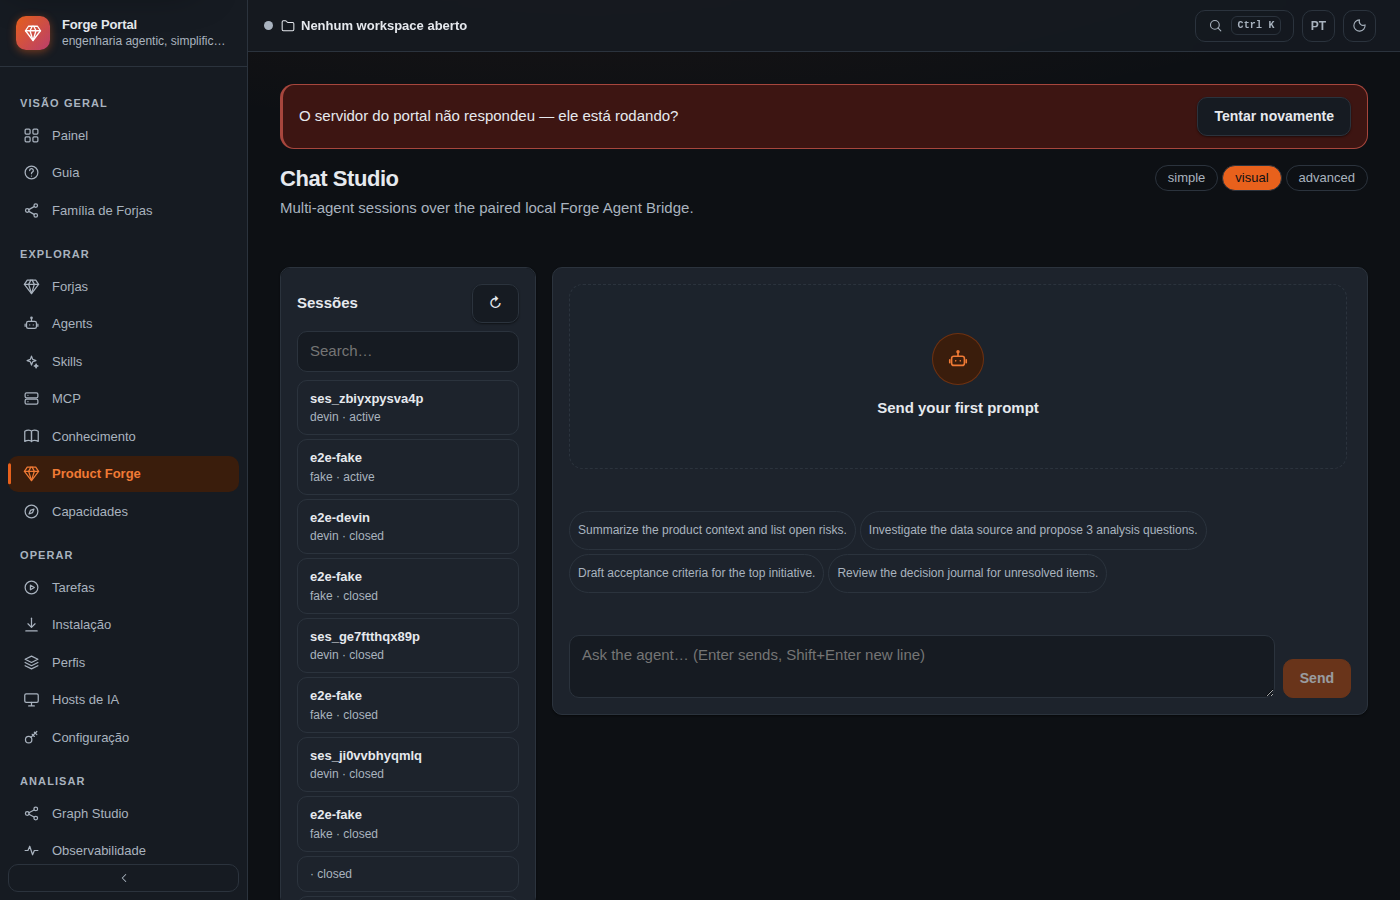
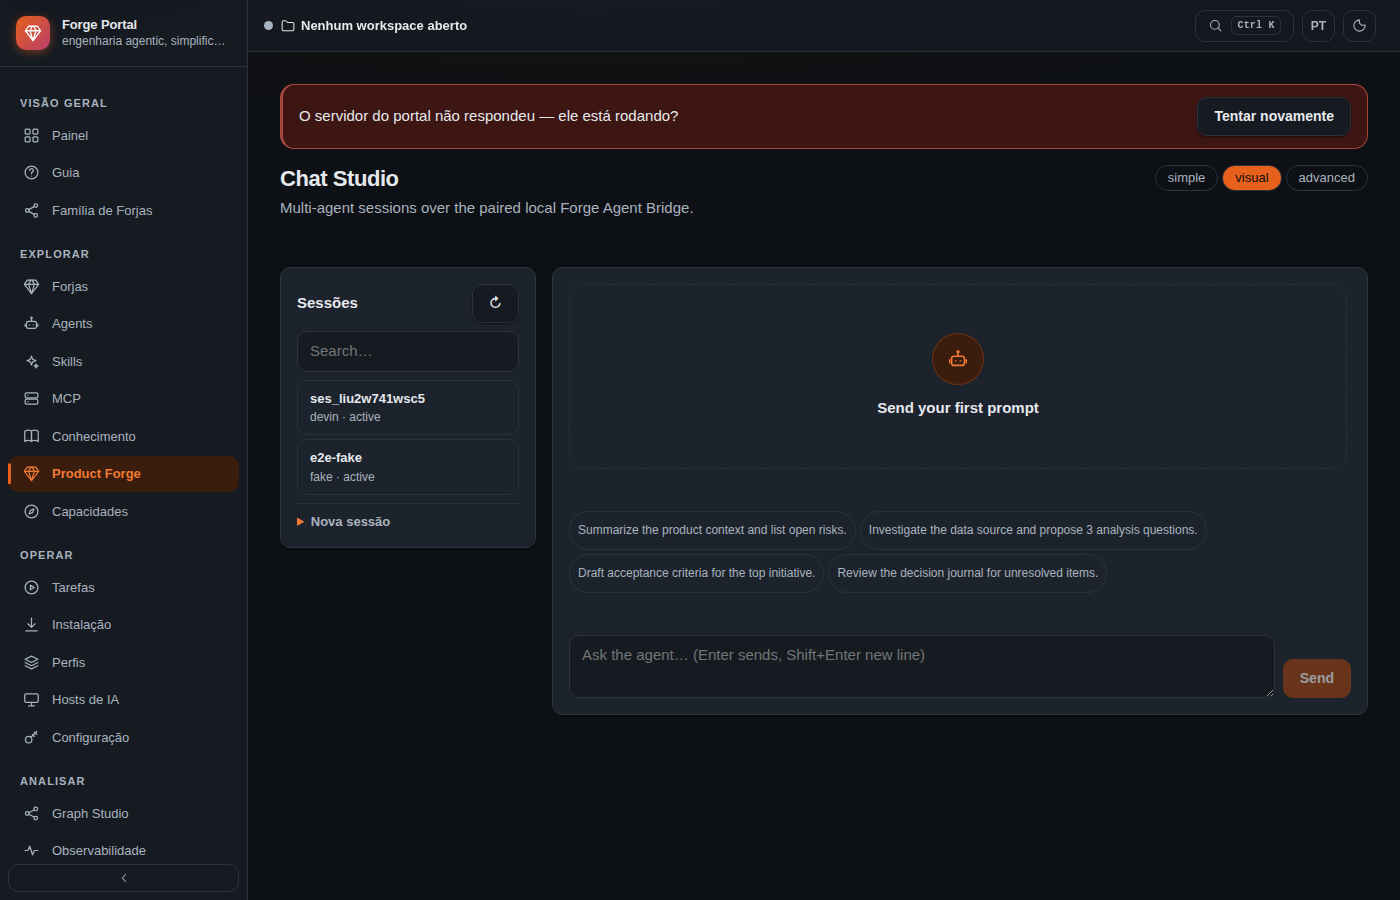
feat: portable e2e harness — dynamic repos/ports/seeded PF state (§30.2)
- seed_pf(): real workspace/products/knowledge-doc/sqlite data-source via
  API in a fresh PF home; all downstream checks use server-assigned ids.
- Playwright re-exec: falls back to PORTAL_REPO/.venv/bin/python (or
  E2E_PY) when the invoking interpreter lacks playwright.
- Verified end-to-end: 42/42 checks green incl. seeded PF flow, real
  Devin provider, and Chromium portal-sessions-visible.

Generated with [Devin](https://devin.ai)

diff --git a/scripts/e2e_cycle30_1.py b/scripts/e2e_cycle30_1.py
@@ -32,6 +32,21 @@ import urllib.request
 from pathlib import Path
 
 
+# Re-exec under a playwright-capable interpreter when needed — the harness
+# itself is stdlib-only, but the Chromium evidence step needs playwright.
+def _needs_reexec() -> str | None:
+    try:
+        import playwright  # noqa: F401
+        return None
+    except ImportError:
+        pass
+    cand = os.environ.get("E2E_PY") or str(
+        PORTAL_REPO / ".venv/bin/python")  # resolved at call time
+    if cand and Path(cand).exists() and Path(cand) != Path(sys.executable):
+        return cand
+    return None
+
+
 def _root() -> Path:
     """Repo root discovery: --root/env FORGE_ROOT, else this repo's parent."""
     if os.environ.get("FORGE_ROOT"):
@@ -123,7 +138,55 @@ def wait_http(url: str, timeout: float = 30) -> None:
     raise RuntimeError(f"timeout waiting for {url}")
 
 
+
+def seed_pf(tok: str) -> dict:
+    """§15 seed — real workspace/products/knowledge/datasource in the
+    (possibly fresh) PF home so every downstream check hits real state."""
+    st, b = req(PFAPI, "/api/v1/workspaces", "POST",
+                {"name": "Forge E2E", "description": "e2e seed"},
+                token=tok)
+    assert st == 201, (st, b)
+    wid = b["data"]["id"]
+    ids = {"wid": wid}
+    for name in ("Payments API", "Customer Analytics"):
+        st, b = req(PFAPI, "/api/v1/products", "POST",
+                    {"workspace_id": wid, "name": name,
+                     "domain": "payments"}, token=tok)
+        assert st == 201, (st, b)
+        ids[name] = b["data"]["id"]
+    pid = ids["Payments API"]
+    ids["pid"] = pid
+    # knowledge doc citing "vault timeout"
+    st, b = req(PFAPI, f"/api/v1/products/{pid}/documents", "POST",
+                {"content": "Incident report: the vault timeout was caused "
+                            "by an expired TLS cert on the payments edge. "
+                            "Mitigation: rotate cert, add alert."},
+                token=tok)
+    assert st in (200, 201), (st, b)
+    # sqlite source with api_errors(code,name,count)
+    db = Path(PF_HOME) / "e2e_seed.db"
+    import sqlite3
+    con = sqlite3.connect(db)
+    con.execute("CREATE TABLE api_errors (code TEXT, name TEXT, count INT)")
+    con.executemany("INSERT INTO api_errors VALUES (?,?,?)",
+                    [("E42", "vault timeout", 17),
+                     ("E17", "rate limit", 9),
+                     ("E07", "auth fail", 4)])
+    con.commit(); con.close()
+    st, b = req(PFAPI, f"/api/v1/products/{pid}/data-sources", "POST",
+                {"product_id": pid, "name": "api_errors",
+                 "connector": "sqlite", "locator": str(db),
+                 "dialect": "sqlite", "read_only": True,
+                 "catalog_allowlist": ["api_errors"]}, token=tok)
+    assert st in (200, 201), (st, b)
+    ids["src"] = b["data"]["id"]
+    return ids
+
+
 def main() -> int:
+    rex = _needs_reexec()
+    if rex:
+        os.execv(rex, [rex, os.path.abspath(__file__), *sys.argv[1:]])
     failures: list[str] = []
 
     def check(name: str, cond: bool, detail: str = "") -> None:
@@ -171,6 +234,14 @@ def main() -> int:
     pair_token = (FAB_STATE / "boot.log").read_text().strip()
     log("boot", note="all up", pair_token_present=bool(pair_token))
 
+    pf_tok = json.loads(subprocess.check_output(
+        [str(PF_BIN), "api", "token", "--show"],
+        env={**os.environ, "PRODUCT_FORGE_HOME": PF_HOME}))["token"]
+    ids = seed_pf(pf_tok)
+    PID, WID, SRC = ids["pid"], ids["wid"], ids["src"]
+    log("seed", pid=PID, wid=WID, src=SRC)
+
+
     # ---------- 5.1 pairing --------------------------------------------------
     st, _ = req(BRIDGE, "/status")
     check("status-no-auth-401", st == 401, f"got {st}")
@@ -191,9 +262,9 @@ def main() -> int:
     check("providers-list", st == 200 and PROVIDER in provs, f"got {st}")
 
     st, s = req(BRIDGE, "/agent-sessions", "POST", {
-        "provider": PROVIDER, "product_id": "prd_017179b95798",
-        "workspace_id": "ws_c70c04c22546", "title": f"e2e-{PROVIDER}",
-        "context": {"product_id": "prd_017179b95798",
+        "provider": PROVIDER, "product_id": PID,
+        "workspace_id": WID, "title": f"e2e-{PROVIDER}",
+        "context": {"product_id": PID,
                     "allowed_knowledge_sources": ["api_errors.md"],
                     "allowed_tools": [],
                     "mcp_registry": ["product-forge"]}}, token=tok)
@@ -288,7 +359,7 @@ def main() -> int:
     # ---------- 5.4 context attach + revocation blocks ops ------------------
     st, b = req(BRIDGE, "/context/attach", "POST", {
         "session_id": sid,
-        "context": {"product_id": "prd_017179b95798",
+        "context": {"product_id": PID,
                     "allowed_knowledge_sources": ["api_errors.md"],
                     "allowed_tools": [],
                     "context_policy": "context_required"}}, token=tok)
@@ -311,9 +382,6 @@ def main() -> int:
     # ---------- PF side (real API) -------------------------------------------
     st, b = req(PFAPI, "/api/v1/health")
     check("pf-health", st == 200, f"got {st}")
-    pf_tok = json.loads(subprocess.check_output(
-        [str(PF_BIN), "api", "token", "--show"],
-        env={**os.environ, "PRODUCT_FORGE_HOME": PF_HOME}))["token"]
     st, b = req(PFAPI, "/api/v1/products", token=pf_tok)
     data = b.get("data", {})
     items = data.get("items", data) if isinstance(data, dict) else data
@@ -321,7 +389,7 @@ def main() -> int:
     check("pf-products", st == 200 and
           {"Payments API", "Customer Analytics"} <= names,
           f"got {st} names={names}")
-    st, b = req(PFAPI, "/api/v1/products/prd_017179b95798/knowledge/query",
+    st, b = req(PFAPI, f"/api/v1/products/{PID}/knowledge/query",
                 "POST", {"question": "vault timeout", "limit": 5}, token=pf_tok)
     cites = b.get("data", {}).get("citations", [])
     check("pf-knowledge-cited", st == 200 and bool(cites),
@@ -329,7 +397,7 @@ def main() -> int:
     log("pf-citation", chunk=(cites or [{}])[0].get("chunk_id"))
 
     # ---------- §12 Payments API flow: SQL, dashboard, report, decision -----
-    pid = "prd_017179b95798"
+    pid = PID
     st, b = req(PFAPI, f"/api/v1/products/{pid}/queries/validate", "POST",
                 {"statement": "SELECT code, name, count FROM api_errors "
                               "ORDER BY count DESC", "dialect": "sqlite"},
@@ -339,7 +407,7 @@ def main() -> int:
     st, b = req(PFAPI, f"/api/v1/products/{pid}/queries/execute", "POST",
                 {"statement": "SELECT code, name, count FROM api_errors "
                               "ORDER BY count DESC",
-                 "source_id": "src_24377b6de02c", "row_limit": 10},
+                 "source_id": SRC, "row_limit": 10},
                 token=pf_tok)
     run = b.get("data", {})
     check("pf-sql-execute", st == 200 and run.get("status") == "completed"
@@ -348,7 +416,7 @@ def main() -> int:
     log("pf-sql", sample=(run.get("result_preview") or [])[:1])
     st, b = req(PFAPI, f"/api/v1/products/{pid}/queries/execute", "POST",
                 {"statement": "DROP TABLE api_errors",
-                 "source_id": "src_24377b6de02c"}, token=pf_tok)
+                 "source_id": SRC}, token=pf_tok)
     wr = b.get("data", {})
     check("pf-sql-write-blocked",
           st != 200 or wr.get("status") in ("rejected", "failed"),
@@ -357,7 +425,7 @@ def main() -> int:
     st, b = req(PFAPI, f"/api/v1/products/{pid}/dashboards", "POST",
                 {"name": "e2e-error-rates",
                  "cards": [{"title": "error counts",
-                            "source_id": "src_24377b6de02c",
+                            "source_id": SRC,
                             "statement": "SELECT code, count FROM api_errors"}]},
                 token=pf_tok)
     did = b.get("data", {}).get("id") or b.get("data", {}).get("dashboard", {}).get("id")
